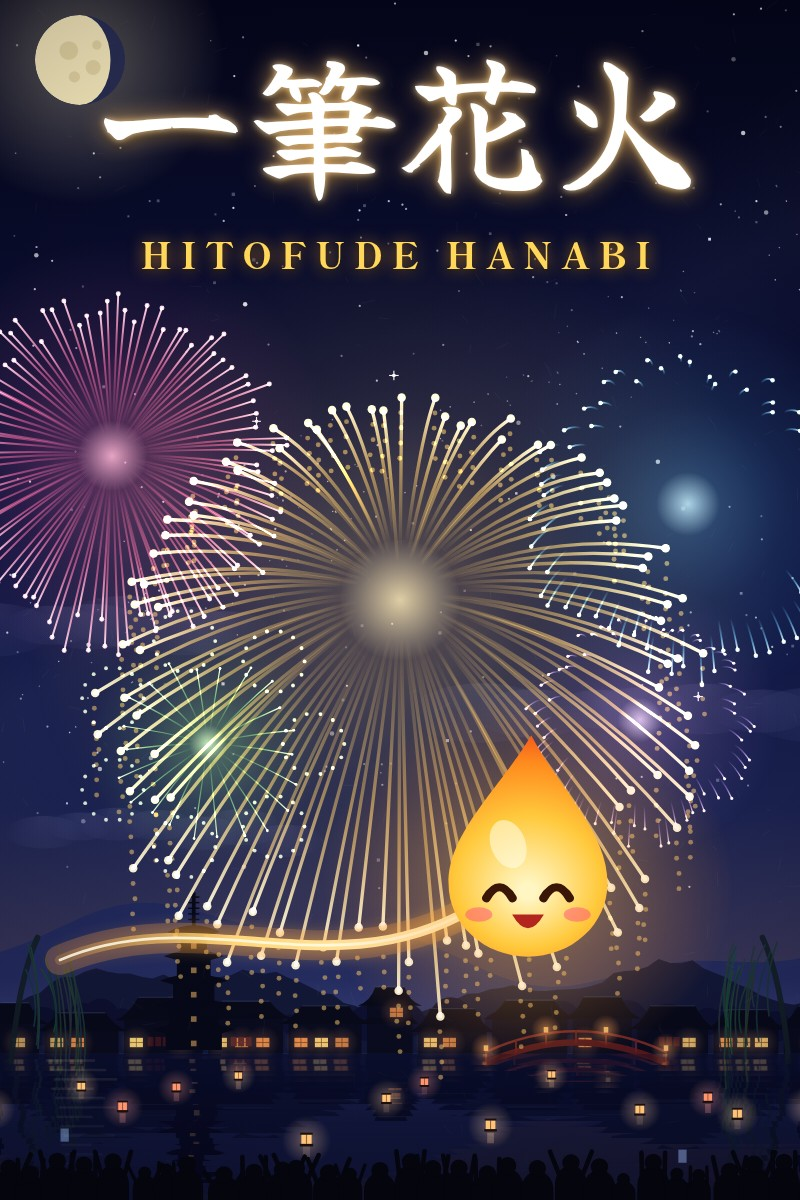
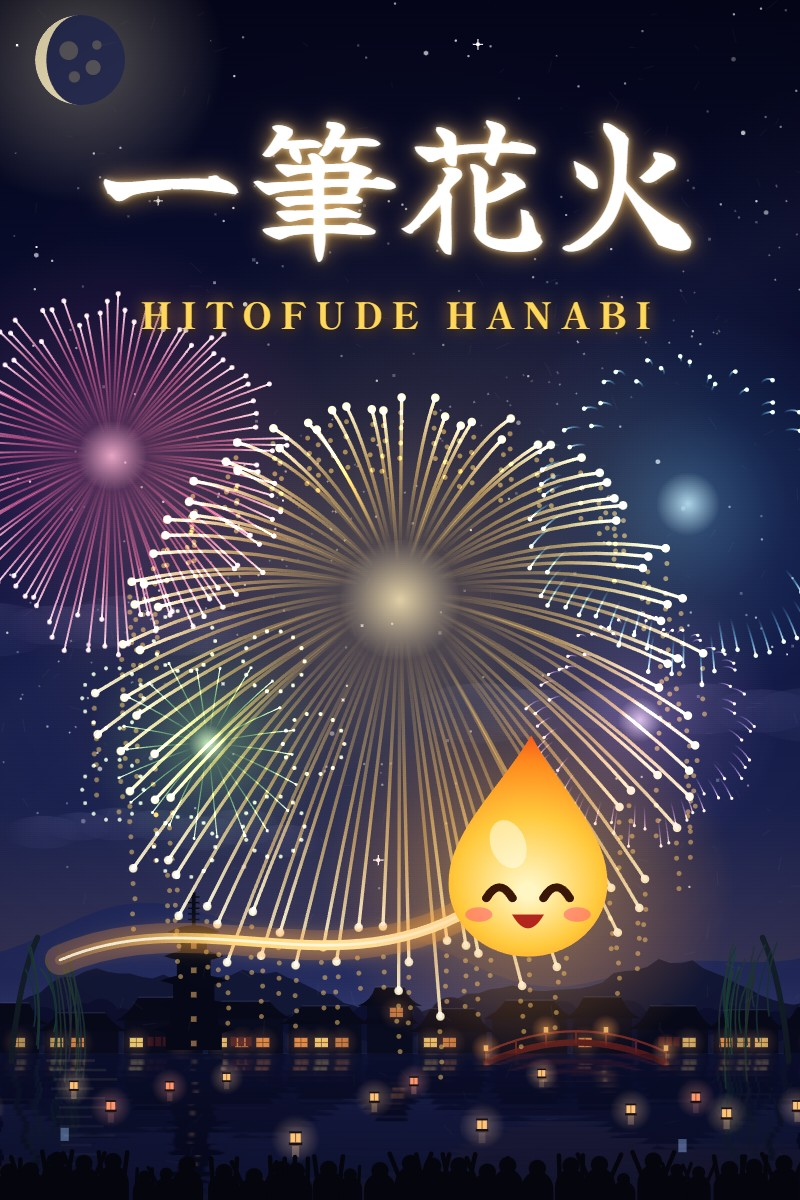
fix(portal): 一筆花火のゲームサイト版で広告とランキングを止め、誤字と表紙を直す
- Basic Launch では広告が止まり、効かない広告ボタンがあると審査で落ちるので、
  祭りの合間の広告と「広告でやりなおす」を出さない（HITO_NO_ADS）
- 名前や ID を自分のサーバーへ送らないよう、ランキングも止める（HITO_NO_RANK）。
  外への通信は CrazyGames の SDK だけになる。サイト版の動作は変わらない
- チュートリアルの「with the mouse (or mouse)」を直す（サイト版にも効く）
- 表紙の縦と正方形の題字を、NEW などのラベルが重なる範囲から外す

diff --git a/hitofude.html b/hitofude.html
@@ -1172,6 +1172,8 @@ const PORTAL = !!window.HITO_PORTAL;
 const CG = (() => {
   let sdk = null, ready = false, playing = false, lastAd = performance.now(), happyAt = 0, adOn = false, muted = false, noReward = false;
   const safe = (fn) => { try { return fn(); } catch (e) { return undefined; } };
+  // Basic Launch の間は広告が止まる（押しても効かない広告のボタンがあると審査で落ちる）。Full Launch に進んだら build_itch_package.py の ads を True に
+  const noAds = !!window.HITO_NO_ADS;
   // 広告の間: 音を止め、画面を覆って触れないようにする（終わったら戻す）
   const hold = (on) => {
     adOn = on; const b = document.getElementById('adBlock'); if (b) b.hidden = !on;
@@ -1184,7 +1186,7 @@ const CG = (() => {
     get ready() { return ready; },
     get adOn() { return adOn; }, // 広告を出している間（音を鳴らさない・入力を受けない）
     get silent() { return adOn || muted; },
-    get canReward() { return ready && !noReward; },
+    get canReward() { return ready && !noAds && !noReward; },
     get noUGC() { return ready && !!safe(() => sdk.game.settings && sdk.game.settings.disableChat); }, // ゲームサイトの「人が書いた字を出さない」設定
     // 全体の音量: 消す設定・広告の間は 0
     level() { if (master && actx) safe(() => master.gain.setTargetAtTime(this.silent ? 0 : 0.9, actx.currentTime, 0.02)); },
@@ -1208,7 +1210,7 @@ const CG = (() => {
     // 祭りと祭りの合間の広告（3 分に 1 回まで）。終わったら（出なくても）then を呼ぶ
     midgame(then) {
       if (adOn) return;
-      if (!ready || performance.now() - lastAd < 180000) { then(); return; }
+      if (!ready || noAds || performance.now() - lastAd < 180000) { then(); return; }
       let done = false, timer = 0; const fin = () => { if (done) return; done = true; clearTimeout(timer); lastAd = performance.now(); hold(false); then(); };
       this.play(false); hold(true);
       // 広告が始まらないまま返ってこないときも先へ進める（始まったら、終わりの合図を待つ）
@@ -1398,7 +1400,7 @@ const T = {
     tutBtn: 'Tutorial', tutStart: '▶ Start with the tutorial', tutLabel: 'Tutorial', tutBanner: 'Draw one line', tutStep: (n, m) => `Tutorial ${n}/${m}`,
     tutEndStep: 'Tutorial 8/8', tutEndHead: 'You\'re ready!', tutGo: '▶ Start the festival', tutTitle: 'Back to title',
     tutEndBody: 'A festival is 8 nights. Nights 3 and 6 are boss nights, where a yokai changes how your line works. New gimmicks and bosses are explained on screen when they appear. You can replay the tutorial from the title any time.',
-    tip_tut1: 'Draw one line from shell to shell with your finger (or mouse). You can trace the hand. Your line can only be as long as the ink below.',
+    tip_tut1: 'Draw one line from shell to shell with your finger. You can trace the hand. Your line can only be as long as the ink below.',
     tip_tut2: 'Your line caught fire and the shells it touched burst! Each burst spreads to nearby shells (a chain). Longer chains score more.',
     tip_tut3: 'Your score is POINTS × MULT. Gold shells and every 10-chain raise the multiplier.',
     tip_tut4: 'Beat the target to reach the next night. Clear 8 nights to finish the festival! Stars come from beating the target, tripling it, and bursting every shell. Spend them at the stall.',
@@ -4519,7 +4521,8 @@ async function rankFetch(path, body = null) {
     return j || { ok: false, error: 'http' };
   } catch (e) { return { ok: false, error: 'net' }; } finally { clearTimeout(tm); }
 }
-async function rankHealth() { const j = await rankFetch('/health'); rankOn = !!(j && j.ok && j.v === K.REPLAY_VERSION); renderRankBtns(); }
+// ゲームサイトの Basic Launch の版は、名前や ID を外へ送らない（送るなら規約・プライバシーの案内が要る）
+async function rankHealth() { const j = window.HITO_NO_RANK ? null : await rankFetch('/health'); rankOn = !!(j && j.ok && j.v === K.REPLAY_VERSION); renderRankBtns(); }
 function renderRankBtns() { const b = $('#rankBtn'); if (b) b.hidden = !rankOn || $('#dailyBtn').hidden; }
 function rankId() {
   DB.rk = DB.rk || {};

diff --git a/scripts/build_itch_package.py b/scripts/build_itch_package.py
@@ -37,9 +37,9 @@ WORKS: dict[str, tuple[str, list[str], list[str]]] = {
     "tsunagu-naraberu-portal": ("tsunagu-naraberu.html", ["assets/tsunagu-naraberu"], ["favicon.svg"]),
 }
 
-# ポータル用の版の作品ごとの違い: タブの名前・隠すもの・CrazyGames の SDK を入れるか（画面の側が SDK に対応している作品だけ）
+# ポータル用の版の作品ごとの違い: タブの名前・隠すもの・CrazyGames の SDK を入れるか（画面の側が SDK に対応している作品だけ）・広告とランキングを使うか（Basic Launch の間は False）
 PORTAL_OPTS = {
-    "hitofude-portal": {"title": "Hitofude Hanabi", "hide": "", "sdk": True},
+    "hitofude-portal": {"title": "Hitofude Hanabi", "hide": "", "sdk": True, "ads": False, "rank": False},
     "tsunagu-naraberu-portal": {"title": "ツナラベ！", "hide": ",a.back", "sdk": False},
 }
 
@@ -69,7 +69,7 @@ def portal_strip(html: str, name: str = "hitofude-portal") -> str:
     if not opt["sdk"]:
         return html.replace("</head>", css + "</head>", 1)
     # SDK は本文ができたらすぐ起こし（init は body に要素を足すので、head の中では失敗する）、読みこみの始めの合図を出す（画面の側は window.__cgInit を待って、終わりの合図を出す）
-    return html.replace("</head>", css + "<script>window.HITO_PORTAL=1</script>"
+    return html.replace("</head>", css + "<script>window.HITO_PORTAL=1" + ("" if opt["ads"] else ";window.HITO_NO_ADS=1") + ("" if opt["rank"] else ";window.HITO_NO_RANK=1") + "</script>"
                         "<script src=\"https://sdk.crazygames.com/crazygames-sdk-v3.js\"></script>"
                         "<script>(()=>{try{const s=window.CrazyGames&&window.CrazyGames.SDK;if(!s)return;"
                         "const go=()=>s.init().then(()=>{try{if(s.environment!=='disabled')s.game.loadingStart();}catch(e){}});"
